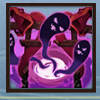
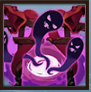
fix(Hunt): 更新阴界之门图片和 ROI 适配云手机

diff --git a/tasks/Hunt/assets.py b/tasks/Hunt/assets.py
@@ -33,7 +33,7 @@ class HuntAssets:
 
 	# Image Rule Assets
 	# 点击阴界之门 
-	I_NW = RuleImage(roi_front=(1060,602,100,100), roi_back=(1060,602,100,100), threshold=0.8, method="Template matching", file="./tasks/Hunt/netherworld/netherworld_nw.png")
+	I_NW = RuleImage(roi_front=(1067,604,91,92), roi_back=(1067,604,91,92), threshold=0.8, method="Template matching", file="./tasks/Hunt/netherworld/netherworld_nw.png")
 	# 点击挑战 
 	I_NW_CHALLAGE = RuleImage(roi_front=(306,590,171,63), roi_back=(306,590,171,63), threshold=0.8, method="Template matching", file="./tasks/Hunt/netherworld/netherworld_nw_challage.png")
 	# 今日已挑战 